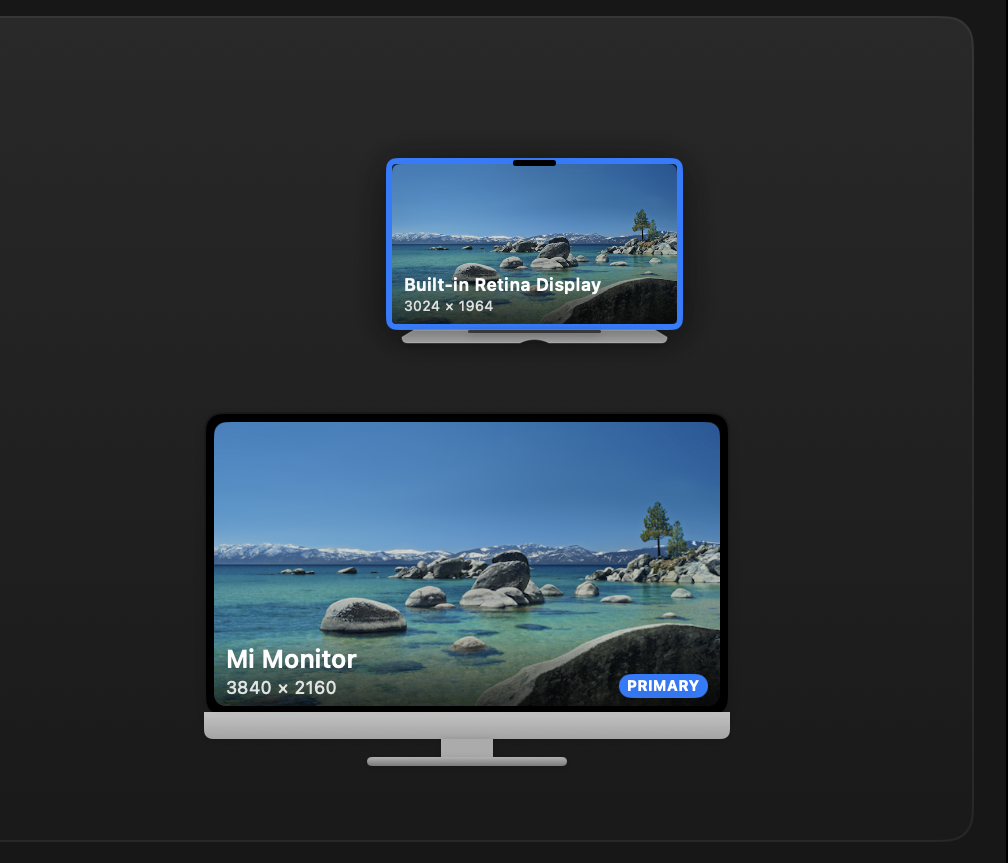
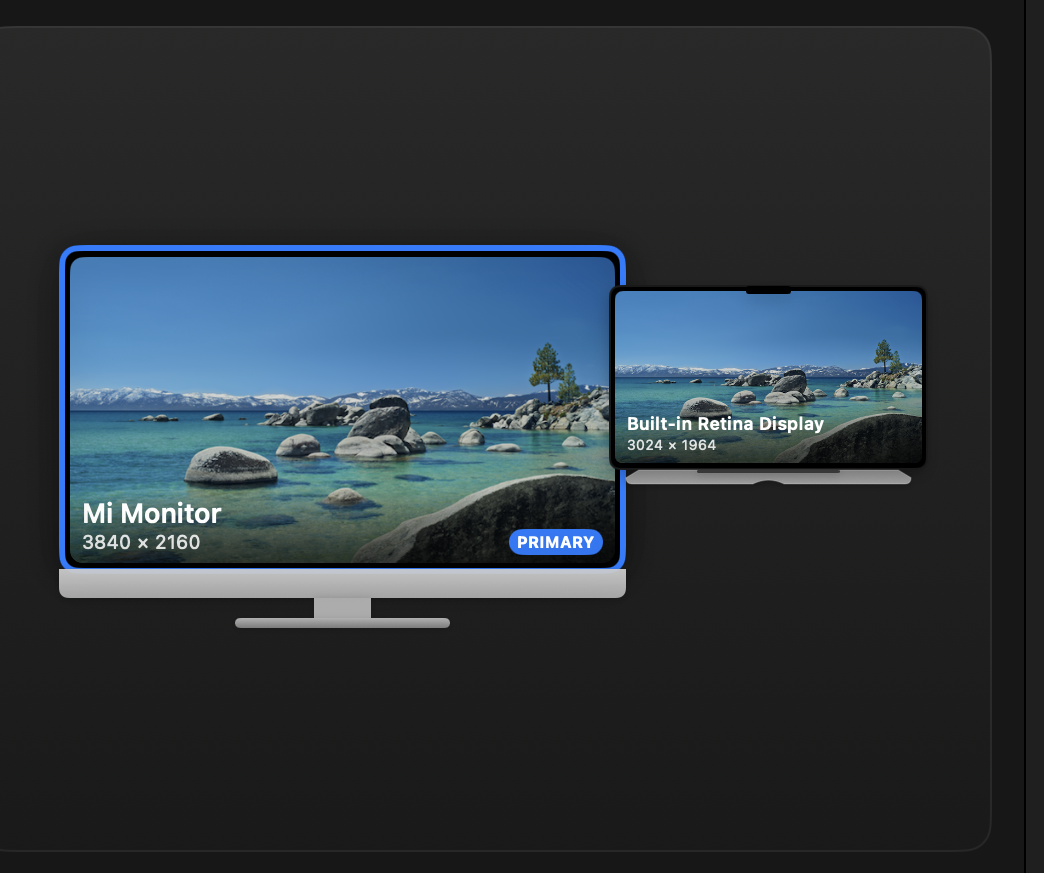
feat(canvas): pack displays edge-to-edge (sticky, native-style)
Replace center-at-point-position placement with a BFS edge-packer: each display
attaches to a placed neighbour on the shared edge, offset by the same fraction it
has in macOS point space. Displays now stick together like the native Displays
pane while keeping physical-size tiles, device chrome, and no overlap.

diff --git a/Sources/DisplayRanger/Views/DisplayCanvasView.swift b/Sources/DisplayRanger/Views/DisplayCanvasView.swift
@@ -1,8 +1,8 @@
 import SwiftUI
 
-/// Drag-to-arrange canvas. Tiles are sized by each display's **physical** size so a
-/// 27" monitor visibly dwarfs a 14" laptop, positioned by the macOS point
-/// arrangement, and scaled so the whole set fits the canvas with no overlap. Device
+/// Drag-to-arrange canvas. Tiles are sized by each display's **physical** size (so a
+/// 27" monitor dwarfs a 14" laptop) and **packed edge-to-edge** following the macOS
+/// arrangement, so displays stick together like the native Displays pane. Device
 /// chrome is drawn *inside* each tile, so nothing protrudes into a neighbour.
 struct DisplayCanvasView: View {
     @EnvironmentObject var manager: DisplayManager
@@ -76,12 +76,13 @@ struct DisplayCanvasView: View {
             }
             .onEnded { value in
                 defer { draggingID = nil; dragOffset = .zero }
-                guard layout.positionScale > 0 else { return }
-                // Canvas translation → display-space points uses the *position* scale.
-                let dx = value.translation.width / layout.positionScale
-                let dy = value.translation.height / layout.positionScale
+                // Canvas translation → display points via this tile's own density;
+                // macOS then snaps the moved display contiguous to its neighbours.
+                let perPx = layout.displayPointsPerCanvasPoint(for: display)
+                guard perPx > 0 else { return }
                 manager.move(displayID: display.id,
-                             to: CGPoint(x: display.origin.x + dx, y: display.origin.y + dy))
+                             to: CGPoint(x: display.origin.x + value.translation.width * perPx,
+                                         y: display.origin.y + value.translation.height * perPx))
             }
     }
 
@@ -94,103 +95,120 @@ struct DisplayCanvasView: View {
     }
 }
 
-/// Maps displays to canvas cells: physical-size tiles placed at point-arrangement
-/// centres, uniformly scaled by `sizeScale`. Pure geometry — no SwiftUI.
+/// Packs displays into canvas cells: physical-size tiles laid **edge-to-edge** along
+/// the macOS arrangement (no gaps — displays stick together), then uniformly scaled
+/// by `sizeScale` and centred. Pure geometry — no SwiftUI.
 struct CanvasLayout {
     private let cells: [CGDirectDisplayID: CGRect]
-    /// Canvas points per display point (for converting drag deltas back to display space).
-    let positionScale: CGFloat
+    private let displays: [CGDirectDisplayID: DisplayModel]
 
     init(displays: [DisplayModel], canvas: CGSize, padding: CGFloat, sizeScale: CGFloat) {
-        guard !displays.isEmpty else { cells = [:]; positionScale = 0; return }
-        let geom = LayoutGeometry(displays: displays, canvas: canvas, padding: padding)
-        positionScale = geom.positionScale
+        var byID: [CGDirectDisplayID: DisplayModel] = [:]
+        for d in displays { byID[d.id] = d }
+        self.displays = byID
+
+        guard !displays.isEmpty else { cells = [:]; return }
+        let pack = DisplayPacker.pack(displays)            // edge-to-edge, unit (mm) space
+        let usableW = max(canvas.width - padding * 2, 1)
+        let offX = padding + (usableW - pack.bounds.width * sizeScale) / 2
+        let usableH = max(canvas.height - padding * 2, 1)
+        let offY = padding + (usableH - pack.bounds.height * sizeScale) / 2
+
         var rects: [CGDirectDisplayID: CGRect] = [:]
-        for d in displays {
-            let c = geom.center(d)
-            let size = geom.cellSize(d, sizeScale: sizeScale)
-            rects[d.id] = CGRect(x: c.x - size.width / 2, y: c.y - size.height / 2,
-                                 width: size.width, height: size.height)
+        for (id, r) in pack.cells {
+            rects[id] = CGRect(x: (r.minX - pack.bounds.minX) * sizeScale + offX,
+                               y: (r.minY - pack.bounds.minY) * sizeScale + offY,
+                               width: r.width * sizeScale, height: r.height * sizeScale)
         }
         cells = rects
     }
 
     func cell(for display: DisplayModel) -> CGRect { cells[display.id] ?? .zero }
 
-    /// Largest tile-size scale that keeps every cell inside the canvas and prevents
-    /// any two cells from overlapping, given the point-arrangement centres.
+    /// Display points per canvas point for a tile (for converting drag deltas).
+    func displayPointsPerCanvasPoint(for display: DisplayModel) -> CGFloat {
+        let w = cells[display.id]?.width ?? 0
+        return w > 0 ? display.bounds.width / w : 0
+    }
+
+    /// Largest scale that fits the packed arrangement inside the padded canvas.
     static func fitSizeScale(displays: [DisplayModel], canvas: CGSize, padding: CGFloat) -> CGFloat {
         guard !displays.isEmpty else { return 0 }
-        let geom = LayoutGeometry(displays: displays, canvas: canvas, padding: padding)
-        var k = CGFloat.greatestFiniteMagnitude
-
-        // Canvas-fit: each cell (at unit scale) must fit centred within the padded canvas.
-        for d in displays {
-            let c = geom.center(d), u = geom.unitCell(d)
-            k = min(k,
-                    2 * (c.x - padding) / u.width,
-                    2 * (canvas.width - padding - c.x) / u.width,
-                    2 * (c.y - padding) / u.height,
-                    2 * (canvas.height - padding - c.y) / u.height)
-        }
-        // Pairwise no-overlap along the axis on which the two displays are separated.
-        let gap: CGFloat = 8
-        for i in 0..<displays.count {
-            for j in (i + 1)..<displays.count {
-                let a = displays[i], b = displays[j]
-                let ca = geom.center(a), cb = geom.center(b)
-                let ua = geom.unitCell(a), ub = geom.unitCell(b)
-                let sepX = a.bounds.maxX <= b.bounds.minX + 1 || b.bounds.maxX <= a.bounds.minX + 1
-                if sepX {
-                    let need = (ua.width + ub.width) / 2
-                    if need > 0 { k = min(k, (abs(ca.x - cb.x) - gap) / need) }
-                } else {
-                    let need = (ua.height + ub.height) / 2
-                    if need > 0 { k = min(k, (abs(ca.y - cb.y) - gap) / need) }
-                }
-            }
-        }
-        return max(k, 0.0001) * 0.98
+        let pack = DisplayPacker.pack(displays)
+        let usableW = max(canvas.width - padding * 2, 1)
+        let usableH = max(canvas.height - padding * 2, 1)
+        let s = min(usableW / max(pack.bounds.width, 1), usableH / max(pack.bounds.height, 1))
+        return max(s, 0.0001) * 0.98
     }
 }
 
-/// Shared point-arrangement → canvas math (centres, per-display cell sizing).
-private struct LayoutGeometry {
-    let canvas: CGSize
-    let unionCenter: CGPoint
-    let positionScale: CGFloat
+/// Lays display cells edge-to-edge in unit (millimetre) space, mirroring the macOS
+/// point arrangement: each non-anchor display is attached to an already-placed
+/// neighbour on the shared edge, offset along that edge by the same fraction it has
+/// in point space. Cell = physical screen + device chrome reserved below it.
+enum DisplayPacker {
+    struct Result { let cells: [CGDirectDisplayID: CGRect]; let bounds: CGRect }
 
-    init(displays: [DisplayModel], canvas: CGSize, padding: CGFloat) {
-        self.canvas = canvas
-        var union = displays[0].bounds
-        for d in displays.dropFirst() { union = union.union(d.bounds) }
-        unionCenter = CGPoint(x: union.midX, y: union.midY)
-        let usableW = max(canvas.width - padding * 2, 1)
-        let usableH = max(canvas.height - padding * 2, 1)
-        positionScale = min(usableW / max(union.width, 1), usableH / max(union.height, 1))
+    static func pack(_ displays: [DisplayModel]) -> Result {
+        guard let anchor = displays.first(where: { $0.isPrimary }) ?? displays.first else {
+            return Result(cells: [:], bounds: .zero)
+        }
+        var placed: [CGDirectDisplayID: CGRect] = [anchor.id: rect(at: .zero, for: anchor)]
+        var queue = [anchor]
+
+        while let p = queue.first {
+            queue.removeFirst()
+            for q in displays where placed[q.id] == nil {
+                guard let side = side(of: q, relativeTo: p) else { continue }
+                placed[q.id] = place(q, side: side, near: p, pRect: placed[p.id]!)
+                queue.append(q)
+            }
+        }
+        // Disconnected displays (rare): drop them to the right of the union.
+        var union = placed.values.first ?? .zero
+        for r in placed.values { union = union.union(r) }
+        for d in displays where placed[d.id] == nil {
+            let r = rect(at: CGPoint(x: union.maxX + 12, y: union.minY), for: d)
+            placed[d.id] = r
+            union = union.union(r)
+        }
+        return Result(cells: placed, bounds: union)
     }
 
-    func center(_ d: DisplayModel) -> CGPoint {
-        CGPoint(x: (d.bounds.midX - unionCenter.x) * positionScale + canvas.width / 2,
-                y: (d.bounds.midY - unionCenter.y) * positionScale + canvas.height / 2)
-    }
+    private enum Side { case right, left, above, below }
 
-    /// Tile size at scale 1: physical width drives size; height = screen (by aspect)
-    /// + device chrome reserved inside the cell.
-    func unitCell(_ d: DisplayModel) -> CGSize {
-        let w = basePhysicalWidth(d)
+    private static func cellSize(_ d: DisplayModel) -> CGSize {
+        let w = d.physicalWidthMM > 0 ? d.physicalWidthMM : d.bounds.width
         let chrome = DeviceChrome.height(kind: d.isBuiltin ? .laptop : .allInOne, screenWidth: w)
         return CGSize(width: w, height: w / d.aspect + chrome)
     }
 
-    func cellSize(_ d: DisplayModel, sizeScale: CGFloat) -> CGSize {
-        let u = unitCell(d)
-        return CGSize(width: u.width * sizeScale, height: u.height * sizeScale)
+    private static func rect(at origin: CGPoint, for d: DisplayModel) -> CGRect {
+        CGRect(origin: origin, size: cellSize(d))
     }
 
-    /// Physical width in mm, or the point width when the display doesn't report a
-    /// physical size (e.g. Sidecar / virtual displays).
-    private func basePhysicalWidth(_ d: DisplayModel) -> CGFloat {
-        d.physicalWidthMM > 0 ? d.physicalWidthMM : d.bounds.width
+    /// Which side of `p` display `q` sits on, if their point bounds share an edge.
+    private static func side(of q: DisplayModel, relativeTo p: DisplayModel) -> Side? {
+        let tol: CGFloat = 2
+        let a = p.bounds, b = q.bounds
+        let yOverlap = a.minY < b.maxY - tol && b.minY < a.maxY - tol
+        let xOverlap = a.minX < b.maxX - tol && b.minX < a.maxX - tol
+        if abs(b.minX - a.maxX) <= tol && yOverlap { return .right }
+        if abs(b.maxX - a.minX) <= tol && yOverlap { return .left }
+        if abs(b.minY - a.maxY) <= tol && xOverlap { return .below }
+        if abs(b.maxY - a.minY) <= tol && xOverlap { return .above }
+        return nil
+    }
+
+    private static func place(_ q: DisplayModel, side: Side, near p: DisplayModel, pRect: CGRect) -> CGRect {
+        let s = cellSize(q)
+        let fracY = (q.bounds.minY - p.bounds.minY) / max(p.bounds.height, 1)
+        let fracX = (q.bounds.minX - p.bounds.minX) / max(p.bounds.width, 1)
+        switch side {
+        case .right: return CGRect(x: pRect.maxX, y: pRect.minY + fracY * pRect.height, width: s.width, height: s.height)
+        case .left:  return CGRect(x: pRect.minX - s.width, y: pRect.minY + fracY * pRect.height, width: s.width, height: s.height)
+        case .below: return CGRect(x: pRect.minX + fracX * pRect.width, y: pRect.maxY, width: s.width, height: s.height)
+        case .above: return CGRect(x: pRect.minX + fracX * pRect.width, y: pRect.minY - s.height, width: s.width, height: s.height)
+        }
     }
 }